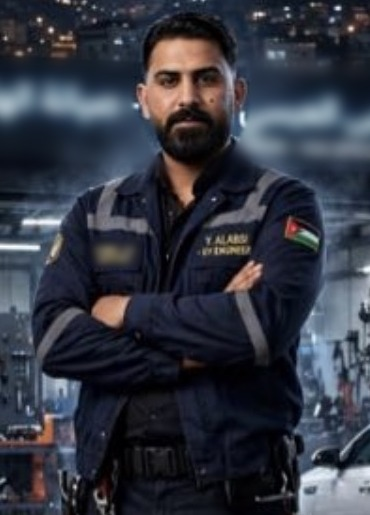
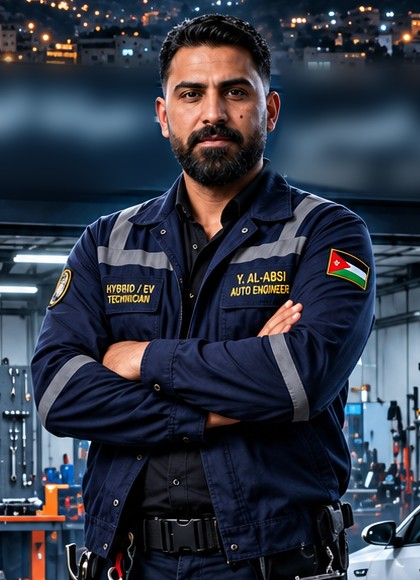
Yahya site: use the client's improved photos
- engineer.jpg from the sharper poster (420x580); the sign text behind
  him is softened again (it misspells the name as "العيسي" and the area
  as "البيدر"), with his head and shoulders protected from the blur
- storefront-2/-3: the photo part of the client's new banners; the
  headline, the bottom text (typo "الكهربانية") and the Hyundai|Kia
  badge are cropped off; one number-like plate inside the shop blurred
- brands-wall.jpg from the brighter photo, again cropped below the
  Hyundai Mobis board
- Config sizes and README photo notes updated

Claude-Session: https://claude.ai/code/session_01KBnSK6yMyDRxkRfCNdrNEK

diff --git a/yahya-site/site.config.ts b/yahya-site/site.config.ts
@@ -43,27 +43,29 @@ const site: SiteConfig = {
       height: 476,
       focus: '50% 50%',
     },
-    // Cropped from the center's promo poster. The sign text behind him is softened and the
-    // "CERTIFIED" chest patch is blurred (not a confirmed fact). A real photo can replace it.
+    // Cropped from the center's promo poster. The sign text behind him is softened (it
+    // misspells the name and the area). A real photo can replace it.
     engineer: {
       src: '/images/yahya/engineer.jpg',
       alt: { ar: 'المهندس يحيى العبسي بزي العمل' },
-      width: 370,
-      height: 515,
+      width: 420,
+      height: 580,
       focus: '50% 30%',
     },
     gallery: [
+      // storefront-2 / -3: photo part of the client's banners (headline, bottom text and the
+      // Hyundai|Kia badge are cropped off).
       {
         src: '/images/yahya/storefront-2.jpg',
         alt: { ar: 'واجهة المركز وسيارات الزبائن أمام مداخل الورشة' },
-        width: 1120,
-        height: 476,
+        width: 1662,
+        height: 550,
       },
       {
         src: '/images/yahya/storefront-3.jpg',
         alt: { ar: 'واجهة المركز من الشارع وسيارات أمام الورشة' },
-        width: 1120,
-        height: 476,
+        width: 1366,
+        height: 456,
       },
       {
         src: '/images/yahya/engine.jpg',
@@ -82,8 +84,8 @@ const site: SiteConfig = {
       {
         src: '/images/yahya/brands-wall.jpg',
         alt: { ar: 'جدار الورشة بلوحات هيونداي وكيا وصور من العمل' },
-        width: 900,
-        height: 783,
+        width: 941,
+        height: 818,
         focus: '50% 30%',
       },
     ],

diff --git a/yahya-site/README.md b/yahya-site/README.md
@@ -60,15 +60,17 @@ Photos live in `public/images/yahya/`. To swap one, **replace the file with the 
 
 What was done to the supplied photos:
 
-- Number plates on the cars in `hero.jpg`, `storefront-2.jpg` and `storefront-3.jpg` are blurred.
-- The bottom 9 pixel rows of those three were trimmed (leftover caption text).
-- `brands-wall.jpg` is cropped below the "HYUNDAI MOBIS" board, so the site does not suggest a
+- `hero.jpg`: number plates blurred; the bottom 9 pixel rows trimmed (leftover caption text).
+- `storefront-2.jpg`, `storefront-3.jpg`: the photo part of the client's improved banners. The
+  headline, the bottom text (it has a typo, "الكهربانية") and the Hyundai|Kia logo badge in the
+  corner are cropped off, so the site does not look like an official dealer. A plate with
+  number-like characters on a car inside the workshop is blurred.
+- `brands-wall.jpg`: cropped below the "HYUNDAI MOBIS" board, so the site does not suggest a
   Mobis partnership. Only the Hyundai and Kia frames and the two work photos remain.
+- `engineer.jpg`: cropped from the client's poster (head to belt). The sign text behind him is
+  softened: it misspells the name ("العيسي") and the area ("البيدر"). The poster's title calls
+  him "د." (Dr.); the site uses "م." as given, so the title is not part of the crop.
 - `logo.png` was resized to 960px and compressed (same look, 0.4 MB instead of 1.6 MB).
-- `engineer.jpg` is cropped from the center's promo poster (a phone screenshot, so it is low
-  resolution). The sign text behind him is softened (it misspells البيادر as "البيدر") and the
-  chest patch reading "HYBRID • EV CERTIFIED" is blurred, because that certification is not
-  confirmed. Replace it with a real photo or the poster's original file when available.
 
 New photos must have plates blurred before they go in. Every build creates small WebP versions
 automatically (`public/images/_generated`, not committed).
